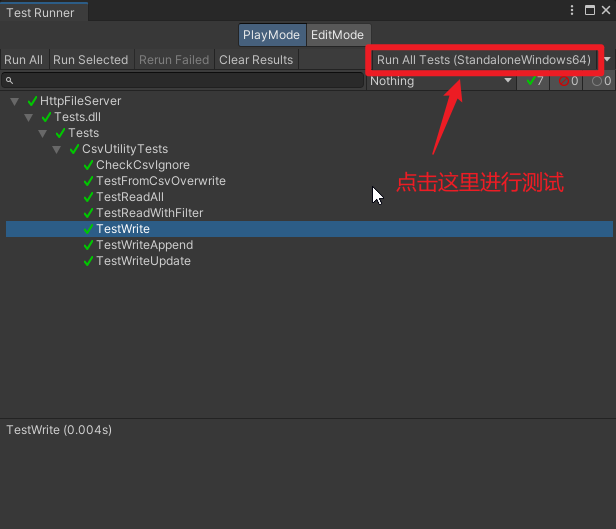
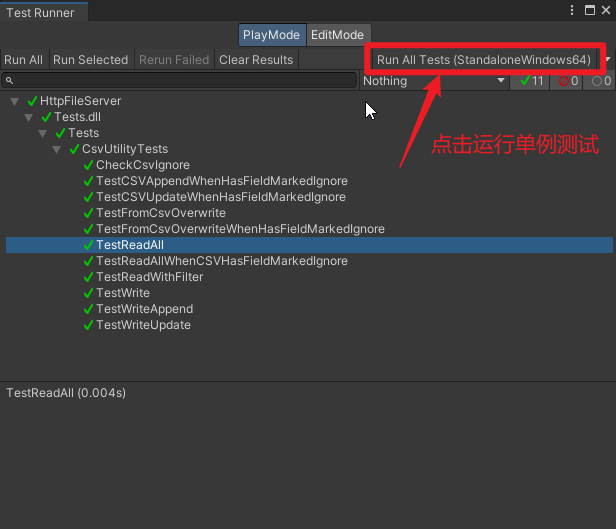
[update] 重构 write 函数，新增测试用例
1. write 中相似的逻辑简化掉
2. 新增多个单例测试，确保 csv 中存在但被标记 CsvIgnore的字段不写入且不读取 csv 数据，写入 csv 时使用默认值，读取 csv 时不覆写对象 ignore 的字段数值

diff --git a/Assets/Tests/UniTestForCsvUtility.cs b/Assets/Tests/UniTestForCsvUtility.cs
@@ -33,13 +33,36 @@ namespace Tests
             Assert.AreEqual(1921, result[1].width);
             Assert.AreEqual(1081, result[1].height);
         }
+
+        [Test]
+        public void TestReadAllWhenCSVHasFieldMarkedIgnore()
+        {
+            testCsvPath = Path.Combine(Path.GetTempPath(), "test.csv");
+            File.WriteAllText(testCsvPath, "name,index,size_x,size_y,width,height\ndisplay1,0,2.5,2.9,1920,1080\ndisplay2,1,3.5,3.9,1921,1081");
+            List<DisplayConfiguration> result = CsvUtility.Read<DisplayConfiguration>(testCsvPath);
+            Assert.AreEqual(2, result.Count);
+            Assert.AreNotEqual("display1", result[0].name);
+            Assert.AreEqual(0, result[0].index);
+            Assert.AreEqual(2.5f, result[0].size_x);
+            Assert.AreEqual(2.9f, result[0].size_y);
+            Assert.AreEqual(1920, result[0].width);
+            Assert.AreEqual(1080, result[0].height);
+            Assert.AreNotEqual("display2", result[1].name);
+            Assert.AreEqual(1, result[1].index);
+            Assert.AreEqual(3.5f, result[1].size_x);
+            Assert.AreEqual(3.9f, result[1].size_y);
+            Assert.AreEqual(1921, result[1].width);
+            Assert.AreEqual(1081, result[1].height);
+        }
+
+
         [Test]
         public void TestWrite()
         {
             var data = new List<DisplayConfiguration>
             {
-                new DisplayConfiguration { index = 2, size_x = 4.5f, size_y = 4.9f, width = 1922, height = 1082 },
-                new DisplayConfiguration { index = 3, size_x = 5.5f, size_y = 5.9f, width = 1923, height = 1083 }
+                new DisplayConfiguration {name="aaa", index = 2, size_x = 4.5f, size_y = 4.9f, width = 1922, height = 1082 },
+                new DisplayConfiguration {name="bbb", index = 3, size_x = 5.5f, size_y = 5.9f, width = 1923, height = 1083 }
             };
             CsvUtility.Write(data, testCsvPath);
 
@@ -65,12 +88,24 @@ namespace Tests
         public void TestFromCsvOverwrite()
         {
             var target = new DisplayConfiguration() { index = 1 };
-            CsvUtility.FromCsvOverwrite(testCsvPath, target, "index");
+            CsvUtility.FromCsvOverwrite(testCsvPath, target, nameof(target.index));
             Assert.AreEqual(1, target.index);
             Assert.AreEqual(3.5f, target.size_x);
             Assert.AreEqual(3.9f, target.size_y);
             Assert.AreEqual(1921, target.width);
             Assert.AreEqual(1081, target.height);
+        }
+
+        [Test]
+        public void TestFromCsvOverwriteWhenHasFieldMarkedIgnore()
+        {
+            var target = new DisplayConfiguration() { name = "test", index = 1 };
+            CsvUtility.FromCsvOverwrite(testCsvPath, target, nameof(target.index));
+            Assert.AreEqual("test", target.name);
+
+            testCsvPath = Path.Combine(Path.GetTempPath(), "test.csv");
+            File.WriteAllText(testCsvPath, "name,index,size_x,size_y,width,height\ndisplay1,0,2.5,2.9,1920,1080\ndisplay2,1,3.5,3.9,1921,1081");
+            Assert.AreNotEqual("display2", target.name);
         }
 
         [Test]
@@ -102,12 +137,46 @@ namespace Tests
         [Test]
         public void CheckCsvIgnore()
         {
-            var target = new DisplayConfiguration {name="test", index = 4, size_x = 1.1f, size_y = 6.6f, width = 1928, height = 1088 };
+            var target = new DisplayConfiguration { name = "test", index = 4, size_x = 1.1f, size_y = 6.6f, width = 1928, height = 1088 };
             CsvUtility.Write(target, testCsvPath, "index", KeyinType.Append);
             var lines = File.ReadAllLines(testCsvPath);
             Assert.AreEqual("index,size_x,size_y,width,height", lines[0]);
             Assert.AreEqual("4,1.1,6.6,1928,1088", lines[3]);
         }
+
+        [Test]
+        public void TestCSVUpdateWhenHasFieldMarkedIgnore()
+        {
+            testCsvPath = Path.Combine(Path.GetTempPath(), "test.csv");
+            File.WriteAllText(testCsvPath, "name,index,size_x,size_y,width,height\ndisplay1,0,2.5,2.9,1920,1080\ndisplay2,1,3.5,3.9,1921,1081");
+
+            var target = new DisplayConfiguration { name = "aaa", index = 1, size_x = 4.5f, size_y = 4.9f, width = 1925, height = 1085 };
+
+            CsvUtility.Write(target, testCsvPath, "index", KeyinType.Update);
+
+            var lines = File.ReadAllLines(testCsvPath);
+            Assert.AreEqual("name,index,size_x,size_y,width,height", lines[0]);
+            Assert.AreEqual("display1,0,2.5,2.9,1920,1080", lines[1]);
+            Assert.AreEqual(",1,4.5,4.9,1925,1085", lines[2]);
+        }
+        [Test]
+        public void TestCSVAppendWhenHasFieldMarkedIgnore()
+        {
+            testCsvPath = Path.Combine(Path.GetTempPath(), "test.csv");
+            File.WriteAllText(testCsvPath, "name,index,size_x,size_y,width,height\ndisplay1,0,2.5,2.9,1920,1080\ndisplay2,1,3.5,3.9,1921,1081");
+
+            var target = new DisplayConfiguration { name = "aaa", index = 2, size_x = 4.5f, size_y = 4.9f, width = 1925, height = 1085 };
+
+            CsvUtility.Write(target, testCsvPath, "index", KeyinType.Append);
+
+            var lines = File.ReadAllLines(testCsvPath);
+            Assert.AreEqual("name,index,size_x,size_y,width,height", lines[0]);
+            Assert.AreEqual("display1,0,2.5,2.9,1920,1080", lines[1]);
+            Assert.AreEqual("display2,1,3.5,3.9,1921,1081", lines[2]);
+            Assert.AreEqual(",2,4.5,4.9,1925,1085", lines[3]);
+        }
+
+
 
 
         [TearDown]

diff --git a/Assets/zFramework/Extension/CsvUtility.cs b/Assets/zFramework/Extension/CsvUtility.cs
@@ -101,11 +101,14 @@ namespace zFramework.Extension
         /// <param name="path">csv 路径</param>
         public static void Write<T>(List<T> target, string path)
         {
-            var fields = typeof(T).GetFields().Where(f => !f.IsDefined(typeof(CsvIgnoreAttribute))).ToArray();
+            var fields = typeof(T).GetFields()
+                .Where(f => !f.IsDefined(typeof(CsvIgnoreAttribute)))
+                .Select(v => v.Name)
+                .ToArray();
             StringBuilder sb = new();
             for (int i = 0; i < fields.Length; i++)
             {
-                sb.Append(fields[i].Name);
+                sb.Append(fields[i]);
                 if (i < fields.Length - 1)
                 {
                     sb.Append(",");
@@ -114,22 +117,7 @@ namespace zFramework.Extension
             sb.AppendLine();
             foreach (var item in target)
             {
-                for (int i = 0; i < fields.Length; i++)
-                {
-                    var value = fields[i].GetValue(item);
-                    if (value != null && value.ToString().Contains(","))
-                    {
-                        sb.Append("\"" + value + "\"");
-                    }
-                    else
-                    {
-                        sb.Append(value);
-                    }
-                    if (i < fields.Length - 1)
-                    {
-                        sb.Append(",");
-                    }
-                }
+                GenerateCSVData(item, fields, sb);
                 sb.AppendLine();
             }
             File.WriteAllText(path, sb.ToString());
@@ -162,7 +150,8 @@ namespace zFramework.Extension
                     found = true;
                     if (keyinType == KeyinType.Update)
                     {
-                        lines[i] = GenerateCSVData(target, headers);
+                        var sb = GenerateCSVData(target, headers);
+                        lines[i] = sb.ToString();
                     }
                     else
                     {
@@ -241,15 +230,16 @@ namespace zFramework.Extension
             }
             return target;
         }
-        private static string GenerateCSVData<T>(T target, string[] headers)
+        private static StringBuilder GenerateCSVData<T>(T target, string[] headers, StringBuilder sb = default)
         {
-            StringBuilder sb = new();
+            sb ??= new();
             for (int j = 0; j < headers.Length; j++)
             {
                 var field = typeof(T).GetField(headers[j]);
+                var ignore = field?.GetCustomAttribute<CsvIgnoreAttribute>(false);
                 if (field != null)
                 {
-                    var value = field.GetValue(target);
+                    var value = ignore == null ? field.GetValue(target) : default;//对于标记 CsvIgnoreAttribute 的字段，如果CSV存在则写入默认值
                     if (value != null && value.ToString().Contains(","))
                     {
                         sb.Append("\"" + value + "\"");
@@ -264,7 +254,7 @@ namespace zFramework.Extension
                     }
                 }
             }
-            return sb.ToString();
+            return sb;
         }
         #endregion
     }

diff --git a/README.md b/README.md
@@ -1,18 +1,46 @@
 # CsvUtility-For-Unity
-a tiny csv read/wirte script, 单文件的 csv 读写工具类，我想他应该和 JsonUtiliy 一样简单好用。
+
+此工具是我与 AI 共同打造的小巧单文件，可用于 CSV 读写。本工具易于使用，支持自定义。
+
+This tool is a compact single file co-created by me and AI for CSV read/write. It is user-friendly, customizable, and supports bilingual usage.
+
+我想他应该和 JsonUtiliy 一样简单好用。
+
+I think it should be as easy to use as JsonUtiliy.
 
 # 开发环境
 Unity 2021.3.16f1
 
-# 功能
+# 功能简介
+1. 简单来说本工具支持读取所有行，读取指定行，根据csv数据更新指定对象，根据指定对象更新或者新增csv数据。
 
-1. 读取 csv 文件内容到指定的对象列表
+    Simply put, this tool supports reading all rows, reading specified rows, updating specified objects based on csv data, and updating or adding csv data based on specified objects.
+
+ 2. 支持使用 [CsvIgnoreAttribute] 标记不需要处理的字段。
+
+	Support using [CsvIgnoreAttribute] to mark fields that do not need to be processed.
+
+# 使用方法
+* 将 CsvUtility.cs 放到你的项目中
+
+    Put CsvUtility.cs into your project
+
+* 参考测试用例就好啦,以下代码均来自于测试用例
+
+    Refer to the test case, the following code is from the test case
+
+* 如果数据量过大，为避免主线程卡死，以下操作可以在 Task 中进行。
+
+    If the data volume is too large, in order to avoid the main thread from being stuck, the following operations can be performed in the Task.
+
+
+>1. 读取 csv 文件内容到指定的对象列表
 
 ```csharp
 List<DisplayConfiguration> result = CsvUtility.Read<DisplayConfiguration>(testCsvPath);
 ```
 
-2. 将指定的对象列表存储成 csv
+>2. 将指定的对象列表存储成 csv
 
 ```csharp
  var data = new List<DisplayConfiguration>
@@ -24,26 +52,38 @@ List<DisplayConfiguration> result = CsvUtility.Read<DisplayConfiguration>(testCs
 
 ```
 
-3. 根据指定的对象更新或者新增 csv 数据
+>3. 更新给定的对象中的数据
 
+ ```csharp
+
+    var target = new DisplayConfiguration() { index = 1 };
+    CsvUtility.FromCsvOverwrite(testCsvPath, target, nameof(target.index));
+            
 ```
-更新数据
+
+
+>4. 根据指定的对象更新或者新增 csv 数据
+
+```csharp
+//更新数据，会根据指定的字段和值查找到对应的行，然后更新该行的数据
+
  var target = new DisplayConfiguration { index = 1, size_x = 4.5f, size_y = 4.9f, width = 1925, height = 1085 };
  CsvUtility.Write(target, testCsvPath, "index", KeyinType.Update);
 
-新增数据
+//新增数据，会在 csv 的最后一行新增一行数据，如果指定的字段的值在 csv 中已经存在，则会抛出异常
+
  var target = new DisplayConfiguration { index = 4, size_x = 1.1f, size_y = 6.6f, width = 1928, height = 1088 };
  CsvUtility.Write(target, testCsvPath, "index", KeyinType.Append);
 
 ```
 
-4. 根据指定字段和值获取指定行的数据并返回一个对象
+>5. 根据指定字段和值获取指定行的数据并返回一个对象
 
 ```csharp
 DisplayConfiguration result = CsvUtility.Read<DisplayConfiguration>(testCsvPath, "index", 1);
 ```
 
-5. 支持通过 CsvIgnoreAttribute 标记不需要处理的字段
+>6. 支持通过 CsvIgnoreAttribute 标记不需要处理的字段
 
 ```csharp
   public class DisplayConfiguration
@@ -55,7 +95,7 @@ DisplayConfiguration result = CsvUtility.Read<DisplayConfiguration>(testCsvPath,
 ```
 
 
-# Unit Test Result
+# 单例测试
 ![](doc/TestRunner.png)
 
 
